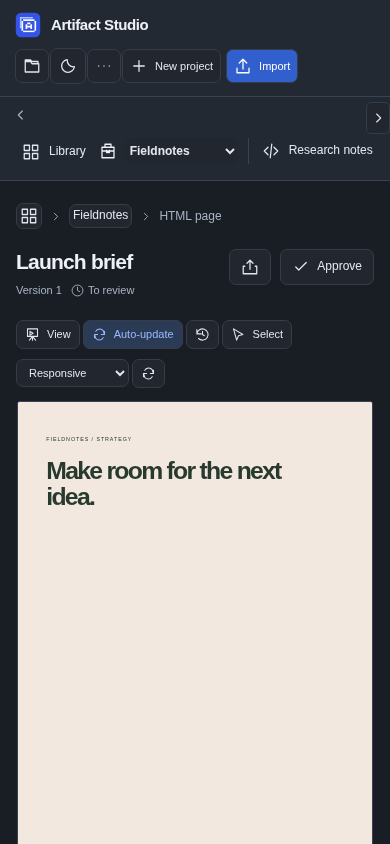
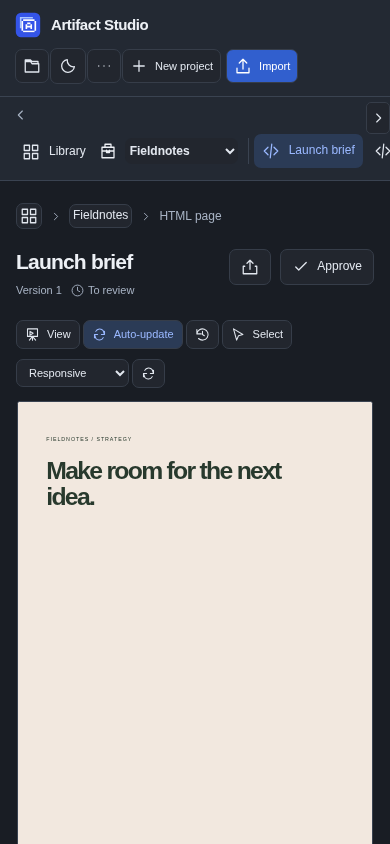
fix(favorites): distinguish reference collection controls (#85)

Changed region(s): [[0.6462, 0.154, 1.0, 0.2156]]

diff --git a/web/hub.js b/web/hub.js
@@ -398,7 +398,7 @@
       const item=state.detail;
       return `<aside class="hub-sidebar" aria-label="Project artifacts">${button('home','Library','grid','class="hub-library-link"')}<label class="hub-project-picker">${icon('project')}<select id="hub-project-picker" aria-label="Choose project">${state.projects.map(project=>`<option value="${escape(project.id)}" ${project.id===item.project_id?'selected':''}>${escape(project.title)}</option>`).join('')}</select></label><nav class="hub-project-artifacts" aria-label="Related artifacts">${state.artifacts.filter(other=>other.project_id===item.project_id).map(other=>`<button type="button" data-artifact="${escape(other.id)}" aria-current="${other.id===item.id}" title="${escape(other.title)}">${icon(kinds[kindOf(other)].icon)}<span>${escape(other.title)}</span>${other.status==='updated'?`<span class="hub-status updated" title="Updated">${icon('updated')}</span>`:''}</button>`).join('')}</nav></aside>`;
     }
-    return `<aside class="hub-sidebar" aria-label="Projects"><button type="button" data-project="all" aria-current="${state.project==='all'}">${icon('grid')}<span>All artifacts</span><span class="hub-count">${state.artifacts.length}</span></button><button type="button" data-project="designs" aria-current="${state.project==='designs'}">${icon('palette')}<span>Designs</span><span class="hub-count">${state.designs.length}</span></button><button type="button" data-action="favorite-slides">${icon('star')}<span>Favorite slides</span></button><div class="hub-sidebar-label">Projects${button('project-add','','plus','aria-label="Add project or folder" title="Add project or folder" aria-haspopup="menu"')}</div>${root.ProjectNavigation.markup({tree:state.projectTree,projects:state.projects,selected:state.project,collapsed:collapsedFolders,icon})}</aside>`;
+    return `<aside class="hub-sidebar" aria-label="Projects"><button type="button" data-project="all" aria-current="${state.project==='all'}">${icon('grid')}<span>All artifacts</span><span class="hub-count">${state.artifacts.length}</span></button><button type="button" data-project="designs" aria-current="${state.project==='designs'}">${icon('palette')}<span>Designs</span><span class="hub-count">${state.designs.length}</span></button><button type="button" data-action="favorite-slides">${icon('referenceStars')}<span>Favorite slides</span></button><div class="hub-sidebar-label">Projects${button('project-add','','plus','aria-label="Add project or folder" title="Add project or folder" aria-haspopup="menu"')}</div>${root.ProjectNavigation.markup({tree:state.projectTree,projects:state.projects,selected:state.project,collapsed:collapsedFolders,icon})}</aside>`;
   }
   function filteredArtifacts(){return sortArtifacts(filterArtifacts(state.artifacts,{...state,projectIds:state.project.startsWith('folder:')?root.ProjectNavigation.projectsIn(state.projectTree,state.project.slice(7)):null}),sort);}
   function visibleItems() {
@@ -493,7 +493,7 @@
   }
   function chatMarkup(item) {
     const value=draft(item),mode=item.mode || 'batch';
-    return `<header><div class="hub-chat-heading">${icon('reply')}Conversation${button('end-review','','stop',`id="hub-end-review" class="hub-end-review" aria-label="End review" title="End review" ${item.delivery?.live_available?'':'hidden'}`)}</div><p class="hub-chat-title" title="${escape(item.title)}">${escape(item.title)} · version ${escape(item.revision || 1)}</p></header>${deliveryMarkup(item)}<div class="hub-thread" id="hub-thread">${(item.feedback || []).length?item.feedback.map(message=>messageMarkup(message,item)).join(''):''}</div><details class="hub-chat-context"><summary>Context & sources</summary><p>${escape(typeof item.context==='string'?item.context:typeof selectedProject(item.project_id)?.context==='string'?selectedProject(item.project_id).context:'')}</p>${button('context','Inspect agent context','code')}</details><form id="hub-feedback-form" class="hub-compose"><div id="hub-targets">${targetsMarkup(value,item)}</div><div id="hub-feedback-attachments" class="hub-attachments">${attachmentMarkup(item.id)}</div>${value.content_hash!==item.content_hash && (value.message || value.targets.length)?'<p class="hub-draft-warning">This draft refers to an earlier version. Its original targets are retained.</p>':''}<div id="hub-voice-segments" class="voice-segments" aria-label="Dictated feedback drafts"></div><textarea id="hub-feedback-text" aria-label="Feedback for ${escape(item.title)}" placeholder="Message your agent… Type @ to reference" maxlength="10000">${escape(value.message)}</textarea><p id="hub-feedback-error" class="hub-compose-error" role="alert"></p><input type="file" id="hub-feedback-files" multiple hidden><div id="hub-feedback-recording" class="voice-recording-bar" aria-label="Voice recording" hidden><button id="hub-cancel-voice" type="button" aria-label="Cancel recording" title="Cancel recording">${icon('close')}</button><div class="voice-listening-dots" role="status" aria-label="Listening">${Array.from({length:28},()=>'<span aria-hidden="true"></span>').join('')}</div><button id="hub-stop-voice" type="button" aria-label="Stop recording" title="Stop recording"><span aria-hidden="true"></span></button><button id="hub-send-voice" type="button" aria-label="${mode==='batch'?'Add dictated feedback to batch':'Send dictated feedback'}" title="${mode==='batch'?'Add dictated feedback to batch':'Send dictated feedback'}">${icon('voiceSend')}</button></div><div class="hub-compose-actions">${button('attach','','attach','aria-label="Attach files" title="Attach files"')}${button('reference-slides','','star','aria-label="Reference favorite slides" title="Reference favorite slides"')}<button type="submit" id="hub-send" class="hub-primary" aria-label="${mode==='batch'?'Add feedback to batch':'Send feedback'}" title="${mode==='batch'?'Add feedback to batch':'Send'} · Enter; new line · Shift+Enter">${icon('voiceSend')}</button></div></form>`;
+    return `<header><div class="hub-chat-heading">${icon('reply')}Conversation${button('end-review','','stop',`id="hub-end-review" class="hub-end-review" aria-label="End review" title="End review" ${item.delivery?.live_available?'':'hidden'}`)}</div><p class="hub-chat-title" title="${escape(item.title)}">${escape(item.title)} · version ${escape(item.revision || 1)}</p></header>${deliveryMarkup(item)}<div class="hub-thread" id="hub-thread">${(item.feedback || []).length?item.feedback.map(message=>messageMarkup(message,item)).join(''):''}</div><details class="hub-chat-context"><summary>Context & sources</summary><p>${escape(typeof item.context==='string'?item.context:typeof selectedProject(item.project_id)?.context==='string'?selectedProject(item.project_id).context:'')}</p>${button('context','Inspect agent context','code')}</details><form id="hub-feedback-form" class="hub-compose"><div id="hub-targets">${targetsMarkup(value,item)}</div><div id="hub-feedback-attachments" class="hub-attachments">${attachmentMarkup(item.id)}</div>${value.content_hash!==item.content_hash && (value.message || value.targets.length)?'<p class="hub-draft-warning">This draft refers to an earlier version. Its original targets are retained.</p>':''}<div id="hub-voice-segments" class="voice-segments" aria-label="Dictated feedback drafts"></div><textarea id="hub-feedback-text" aria-label="Feedback for ${escape(item.title)}" placeholder="Message your agent… Type @ to reference" maxlength="10000">${escape(value.message)}</textarea><p id="hub-feedback-error" class="hub-compose-error" role="alert"></p><input type="file" id="hub-feedback-files" multiple hidden><div id="hub-feedback-recording" class="voice-recording-bar" aria-label="Voice recording" hidden><button id="hub-cancel-voice" type="button" aria-label="Cancel recording" title="Cancel recording">${icon('close')}</button><div class="voice-listening-dots" role="status" aria-label="Listening">${Array.from({length:28},()=>'<span aria-hidden="true"></span>').join('')}</div><button id="hub-stop-voice" type="button" aria-label="Stop recording" title="Stop recording"><span aria-hidden="true"></span></button><button id="hub-send-voice" type="button" aria-label="${mode==='batch'?'Add dictated feedback to batch':'Send dictated feedback'}" title="${mode==='batch'?'Add dictated feedback to batch':'Send dictated feedback'}">${icon('voiceSend')}</button></div><div class="hub-compose-actions">${button('attach','','attach','aria-label="Attach files" title="Attach files"')}${button('reference-slides','','referenceStars','aria-label="Reference favorite slides" title="Reference favorite slides"')}<button type="submit" id="hub-send" class="hub-primary" aria-label="${mode==='batch'?'Add feedback to batch':'Send feedback'}" title="${mode==='batch'?'Add feedback to batch':'Send'} · Enter; new line · Shift+Enter">${icon('voiceSend')}</button></div></form>`;
   }
   function attachmentMarkup(id) {
     chatImages.retain([...attachments.values()].flat());

diff --git a/web/favorites.js b/web/favorites.js
@@ -143,7 +143,7 @@
   function ensurePicker(){
     if(picker)return;
     picker=doc.createElement('dialog');picker.className='favorites-dialog';picker.setAttribute('aria-labelledby','favorites-title');
-    picker.innerHTML=`<div class="favorites-heading"><div><h2 id="favorites-title">${icon()} Favorite slides</h2><p id="favorites-help"></p></div><button type="button" data-favorites-close aria-label="Close favorite slides">${root.SlideIcons.svg('close')}</button></div><label class="favorites-search">${root.SlideIcons.svg('search')}<input type="search" aria-label="Search favorite slides" placeholder="Search titles or descriptions…"></label><div class="favorites-grid"></div><p class="favorites-error" role="alert"></p><div class="favorites-footer"><span role="status"></span><button type="button" class="primary" data-favorites-add>Add references</button></div>`;
+    picker.innerHTML=`<div class="favorites-heading"><div><h2 id="favorites-title">${root.SlideIcons.svg('referenceStars')} Favorite slides</h2><p id="favorites-help"></p></div><button type="button" data-favorites-close aria-label="Close favorite slides">${root.SlideIcons.svg('close')}</button></div><label class="favorites-search">${root.SlideIcons.svg('search')}<input type="search" aria-label="Search favorite slides" placeholder="Search titles or descriptions…"></label><div class="favorites-grid"></div><p class="favorites-error" role="alert"></p><div class="favorites-footer"><span role="status"></span><button type="button" class="primary" data-favorites-add>Add references</button></div>`;
     doc.body.append(picker);
     picker.querySelector('[data-favorites-close]').addEventListener('click',()=>{if(!busy)picker.close();});
     picker.addEventListener('cancel',event=>{if(busy)event.preventDefault();});
@@ -188,7 +188,7 @@
     const matches=entries.filter(item=>`${item.title} ${item.deck_title} ${item.description||''}`.toLocaleLowerCase().includes(query));
     const grid=picker.querySelector('.favorites-grid'),existing=new Map([...grid.querySelectorAll('[data-favorite-card]')].map(card=>[card.dataset.favoriteCard,card]));
     const keys=new Set(matches.map(item=>item.deck_id+'/'+item.slide_id));
-    for(const child of [...grid.children])if(!keys.has(child.dataset.favoriteCard))child.remove();
+    for(const child of [...grid.childNodes])if(!keys.has(child.dataset?.favoriteCard))child.remove();
     matches.forEach((item,index)=>{
       const key=item.deck_id+'/'+item.slide_id,url=`/?deck=${encodeURIComponent(item.deck_id)}#${encodeURIComponent(item.slide_id)}`;
       const signature=JSON.stringify([item,!!attach]),previous=existing.get(key);let card=previous;

diff --git a/web/app.js b/web/app.js
@@ -895,7 +895,7 @@
   $('notes').addEventListener('input',()=>{noteAutosave.edit(key(),$('notes').value);retainDraft();});$('notes').addEventListener('blur',()=>{void noteAutosave.flush(key());});$('save-notes').addEventListener('click',saveNotes);$('feedback-text').addEventListener('input',()=>{retainDraft();updateComposer();});
   /** Send chat messages with Enter while preserving multiline and composition input. */
   function bindMessageEnter(inputId,buttonId,send){$(inputId).addEventListener('keydown',event=>{if(event.key!=='Enter'||event.shiftKey||event.altKey||event.isComposing||event.keyCode===229)return;event.preventDefault();if(!event.repeat&&!$(buttonId).disabled)send();});}
-  iconButton($('reference-slides'),'star','Reference favorite slides');
+  iconButton($('reference-slides'),'referenceStars','Reference favorite slides');
   window.ChatReferences.register({inputId:'feedback-text',key,attach:files=>chatComposer.add(files)});
   $('reference-slides').addEventListener('click',()=>{const context=key();void window.FavoriteSlides.open({attach:files=>context===key()&&chatComposer.add(files)});});
   void window.FavoriteSlides.refresh().catch(error=>toast(error.message,true));

diff --git a/web/icons.js b/web/icons.js
@@ -3,6 +3,7 @@
   const paths={
     search:'m21 21-5-5M10.5 3a7.5 7.5 0 1 0 0 15 7.5 7.5 0 0 0 0-15',
     star:'m12 3 2.8 5.7 6.3.9-4.6 4.4 1.1 6.3L12 17.3l-5.6 3 1.1-6.3L3 9.6l6.2-.9Z',
+    referenceStars:'m9 7 2.2 4.4 4.8.7-3.5 3.4.8 4.8L9 18l-4.3 2.3.8-4.8L2 12.1l4.8-.7ZM18 2l1.2 2.5 2.8.4-2 1.9.5 2.7L18 8.2l-2.5 1.3.5-2.7-2-1.9 2.8-.4Z',
     share:'M12 15V3m-4 4 4-4 4 4M5 11H3v10h18V11h-2',
     mail:'M3 5h18v14H3zM3 6l9 7 9-7',
     sectionAdd:'M3 5h18M3 10h11M3 15h8M17 13v8M13 17h8',

diff --git a/scripts/capture_chat_references.py b/scripts/capture_chat_references.py
@@ -28,18 +28,20 @@ def main() -> None:
             prepare_covers(app, browser)
             page = browser.new_page(viewport={"width": 1440, "height": 1000})
 
-            def capture(name: str) -> None:
+            def capture(name: str, selector: str | None = None) -> None:
                 violations: object = None
                 if args.axe:
                     _ = page.add_script_tag(path=str(args.axe))
                     violations = page.evaluate("async()=> (await axe.run()).violations")
-                data = page.screenshot(path=output / name, animations="disabled")
+                target = page.locator(selector) if selector else page
+                data = target.screenshot(path=output / name, animations="disabled")
                 captures[name] = {
                     "sha256": hashlib.sha256(data).hexdigest(),
                     "viewport": page.viewport_size,
                     "captured_at": datetime.now(UTC).isoformat(),
                     "axe_ran": bool(args.axe),
                     "axe_violations": violations,
+                    "selector": selector,
                 }
                 print("Captured " + name, flush=True)
 
@@ -62,6 +64,7 @@ def main() -> None:
             expect(page.locator(".is-path-reference")).to_have_count(2)
             page.mouse.move(1, 1)
             capture("chat-reference-chips.png")
+            capture("reference-picker-stars-light.png", "#feedback-form")
             page.locator("form .is-path-reference").first.hover()
             saved_preview = page.locator("#chat-saved-reference-preview")
             expect(saved_preview).to_be_visible()
@@ -95,6 +98,7 @@ def main() -> None:
             text.hover()
             page.set_viewport_size({"width": 390, "height": 844})
             capture("chat-reference-artifact-mobile.png")
+            capture("reference-picker-stars-dark.png", "#hub-feedback-form")
             browser.close()
     _ = (output / "chat-reference-captures.json").write_text(json.dumps(captures, indent=2) + "\n")
 

diff --git a/tests/integration/test_favorites.py b/tests/integration/test_favorites.py
@@ -106,6 +106,7 @@ def test_cross_deck_reference_drafts_batch_delivery_and_frozen_source(
     page.get_by_role("button", name="Reference favorite slides", exact=True).click()
     picker = page.get_by_role("dialog", name="Favorite slides", exact=True)
     expect(picker.locator("[data-favorite-pick]")).to_have_count(3)
+    expect(picker.locator(".favorites-grid")).not_to_contain_text("Loading…")
     picker.get_by_role(
         "button", name="Edit description for One slide. One clear idea.", exact=True
     ).click()

diff --git a/README.md b/README.md
@@ -249,7 +249,7 @@ The editor keeps tools in one row. Top-bar icons toggle the slide list and conve
 
 The hub's **… → Presentation tools** opens the existing editor menu for design references, reference libraries, instructions and agent connection. **← All artifacts** at the top of the presentation sidebar returns to the hub, including from slide overview. Existing `/?deck=...` links remain valid.
 
-Star artifacts to keep them first in the library. Star individual slide thumbnails to save them in **Favorite slides**, across presentations. Add an optional description to explain why a slide is useful; search finds descriptions and titles. In either chat, **type @** to search projects, artifacts, presentations and slides by path. **Tab** or **Enter** attaches the highlighted result as a compact title pill; **→** browses into a project or presentation. Hover over a suggestion for a preview beside the cursor; hover a title pill to unfold its saved thumbnail. The **★ beside the paperclip** also opens the favorite-slide picker. References preserve the selected source and description for the agent. [Chat references](docs/CHAT-REFERENCES.md).
+Star artifacts to keep them first in the library. Star individual slide thumbnails to save them in **Favorite slides**, across presentations. Add an optional description to explain why a slide is useful; search finds descriptions and titles. In either chat, **type @** to search projects, artifacts, presentations and slides by path. **Tab** or **Enter** attaches the highlighted result as a compact title pill; **→** browses into a project or presentation. Hover over a suggestion for a preview beside the cursor; hover a title pill to unfold its saved thumbnail. The **button with two stars beside the paperclip** also opens the favorite-slide picker. References preserve the selected source and description for the agent. [Chat references](docs/CHAT-REFERENCES.md).
 
 ## Your files stay local
 

diff --git a/docs/CHAT-REFERENCES.md b/docs/CHAT-REFERENCES.md
@@ -28,9 +28,13 @@ Remove a draft pill with its **×**. Sent references remain title pills you can 
 to download the frozen source. Repeating the same version in one message reuses
 its attachment. Up to five attachments fit in one message.
 
-You can still click **★ beside the paperclip** to choose several favorite slides
+Click the **button with two stars beside the paperclip** to choose several favorite slides
 at once, including slides from other presentations. These use the same compact
 title pills; descriptions stay inside the frozen reference delivered to your agent.
+The two stars represent the collection; the single star on a slide saves that slide
+to Favorites.
+
+![Two-star reference picker beside the microphone](screenshots/reference-picker-stars-dark.png)
 
 Pill previews use the attachment captured when you selected the reference, even
 after its source changes or disappears. Slides show their saved canvas;
